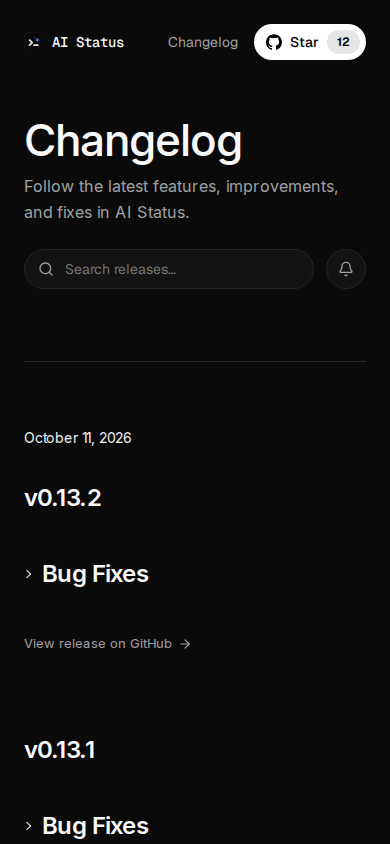
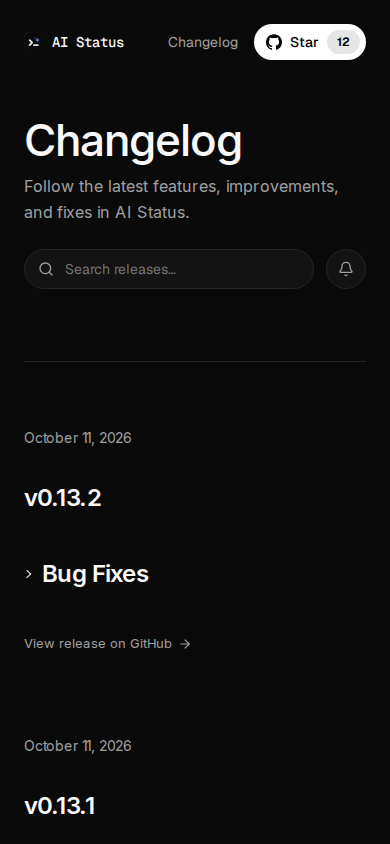
fix(web): repeat changelog dates on mobile (#61)

Changed region(s): [[0.0615, 0.8626, 0.4, 1.0], [0.2154, 0.4929, 0.3385, 0.5237], [0.0615, 0.4929, 0.1846, 0.5237]]

diff --git a/apps/web/src/app/changelog/changelog.css b/apps/web/src/app/changelog/changelog.css
@@ -28,6 +28,7 @@
 .changelog-date a::before { content: ""; position: absolute; left: 6px; top: 9px; height: 7px; width: 7px; border-radius: 50%; background: var(--foreground); }
 .changelog-day-releases { grid-column: 4 / span 6; min-width: 0; }
 .changelog-entry { position: relative; padding-bottom: 96px; scroll-margin-top: 96px; }
+.changelog-entry-date { display: none; }
 .changelog-article { min-width: 0; }
 .changelog-release-title { font-size: 32px; line-height: 36px; font-weight: 590; letter-spacing: -.704px; margin: 0; }
 .changelog-version { font-size: 14px; color: var(--muted-foreground); margin-top: 8px; }
@@ -76,8 +77,8 @@
 	.changelog-search { flex: 1; width: auto; min-width: 0; }
 	.changelog-day { display: flex; flex-direction: column; gap: 32px; }
 	.changelog-entry { padding-bottom: 80px; }
-	.changelog-day::before, .changelog-date a::before { display: none; }
-	.changelog-date a { position: static; padding: 0; color: var(--muted-foreground); }
+	.changelog-day::before, .changelog-date { display: none; }
+	.changelog-entry-date { display: block; margin-bottom: 32px; color: var(--muted-foreground); font-size: 14px; line-height: 24px; letter-spacing: -.182px; }
 	.changelog-prose :is(h1, h2, h3, h4) { margin-top: 40px; }
 	.changelog-pagination { flex-wrap: wrap; gap: 12px; padding-bottom: 64px; }
 	.changelog-pagination > span { width: 100%; }

diff --git a/apps/web/src/app/changelog/page.tsx b/apps/web/src/app/changelog/page.tsx
@@ -49,6 +49,7 @@ export default async function ChangelogPage({ searchParams }: {
 						return (
 							<article key={release.id} id={id} className="changelog-entry" aria-labelledby={`${id}-title`}>
 								<div className="changelog-article">
+									<div className="changelog-entry-date"><a href={`#${id}`}><time dateTime={day}>{date}</time></a></div>
 									<h2 id={`${id}-title`} className="changelog-release-title"><a href={release.url}>{release.name}</a></h2>
 									{release.name !== release.tagName && <p className="changelog-version">{release.tagName}</p>}
 									<div className="changelog-prose">

diff --git a/docs/screenshots/changelog/README.md b/docs/screenshots/changelog/README.md
@@ -2,7 +2,7 @@
 
 These screenshots capture the production Next.js build at `/changelog`, using
 published stable releases from `gelzinn/ai-status`. The latest release shown is
-`v0.13.2`, captured on October 11, 2026. No credentials or account data appear.
+`v0.13.2`, captured on October 12, 2026. No credentials or account data appear.
 
 The release list follows the Linear changelog's measured typography, spacing,
 timeline and responsive grid. The page reuses the website's shared header and
@@ -11,8 +11,11 @@ Header, content and footer share the landing page's `max-w-7xl` container and
 24-pixel horizontal padding. A description replaces the repeated changelog tab.
 Releases share one date and timeline marker per UTC publication day. On desktop,
 the date stays visible while scrolling through that day's releases, then gives
-way to the next date. Mobile shows one static date above each group. The captured
-October 11 group contains six releases.
+way to the next date. At widths up to 640 pixels, each release instead shows its
+own static date and anchor, including releases published on the same day. The
+shared group date is hidden on mobile; article dates are hidden on desktop. Hidden
+dates are excluded from the accessibility tree and cannot receive focus. The
+captured October 11 group contains six releases.
 
 Features and Bug Fixes use the same expandable headings. Features starts open;
 Bug Fixes starts closed. Releases containing only fixes keep those notes available
@@ -20,16 +23,20 @@ in their Bug Fixes section.
 
 - `desktop-dark.png` and `desktop-light.png`: 1440 × 1000 viewport.
 - `mobile-dark.png` and `mobile-light.png`: 390 × 844 viewport.
+- `mobile-dates-dark.png`: 390 × 844 viewport, scrolled to show the October 11 date
+  repeated above `v0.13.2`, `v0.13.1` and `v0.13.0`.
 - `desktop-sticky-dark.png`: 1440 × 1000 viewport, scrolled through the October 11
   group to show one date beside several versions.
 - `desktop-legacy-dark.png`: 1440 × 1000 viewport, showing the normalized sections
-  in the published `v0.9.0` notes.
+  in the published `v0.9.0` notes. This October 11 capture is retained because
+  desktop legacy rendering is unchanged.
 
-Browser validation covers one date/marker per day, sticky behavior across several
-releases and at day boundaries, static mobile dates, release anchors, search
-across older releases, query-preserving pagination, clearing search, and section
-defaults and mouse/keyboard toggles. Header/content/footer edges remain aligned
-with no horizontal overflow at 320, 390, 768, 1024, 1440 or 1920 pixels. The
+Browser validation covers one desktop date/marker per day, sticky behavior across
+several releases and at day boundaries, one mobile date per article, exact UTC
+dates, hidden date accessibility/focusability, release anchors, search across
+older releases, query-preserving pagination, clearing search, and section defaults
+and mouse/keyboard toggles. Header/content/footer edges remain aligned with no
+horizontal overflow at 320, 390, 640, 641, 768 or 1440 pixels. The
 canonical version/date heading and commits link are removed from the rendered
 `v0.1.0` body. A separate fixture exercises the image component's server rendering,
 hydration, zoom dialog, linked images and keyboard behavior.
